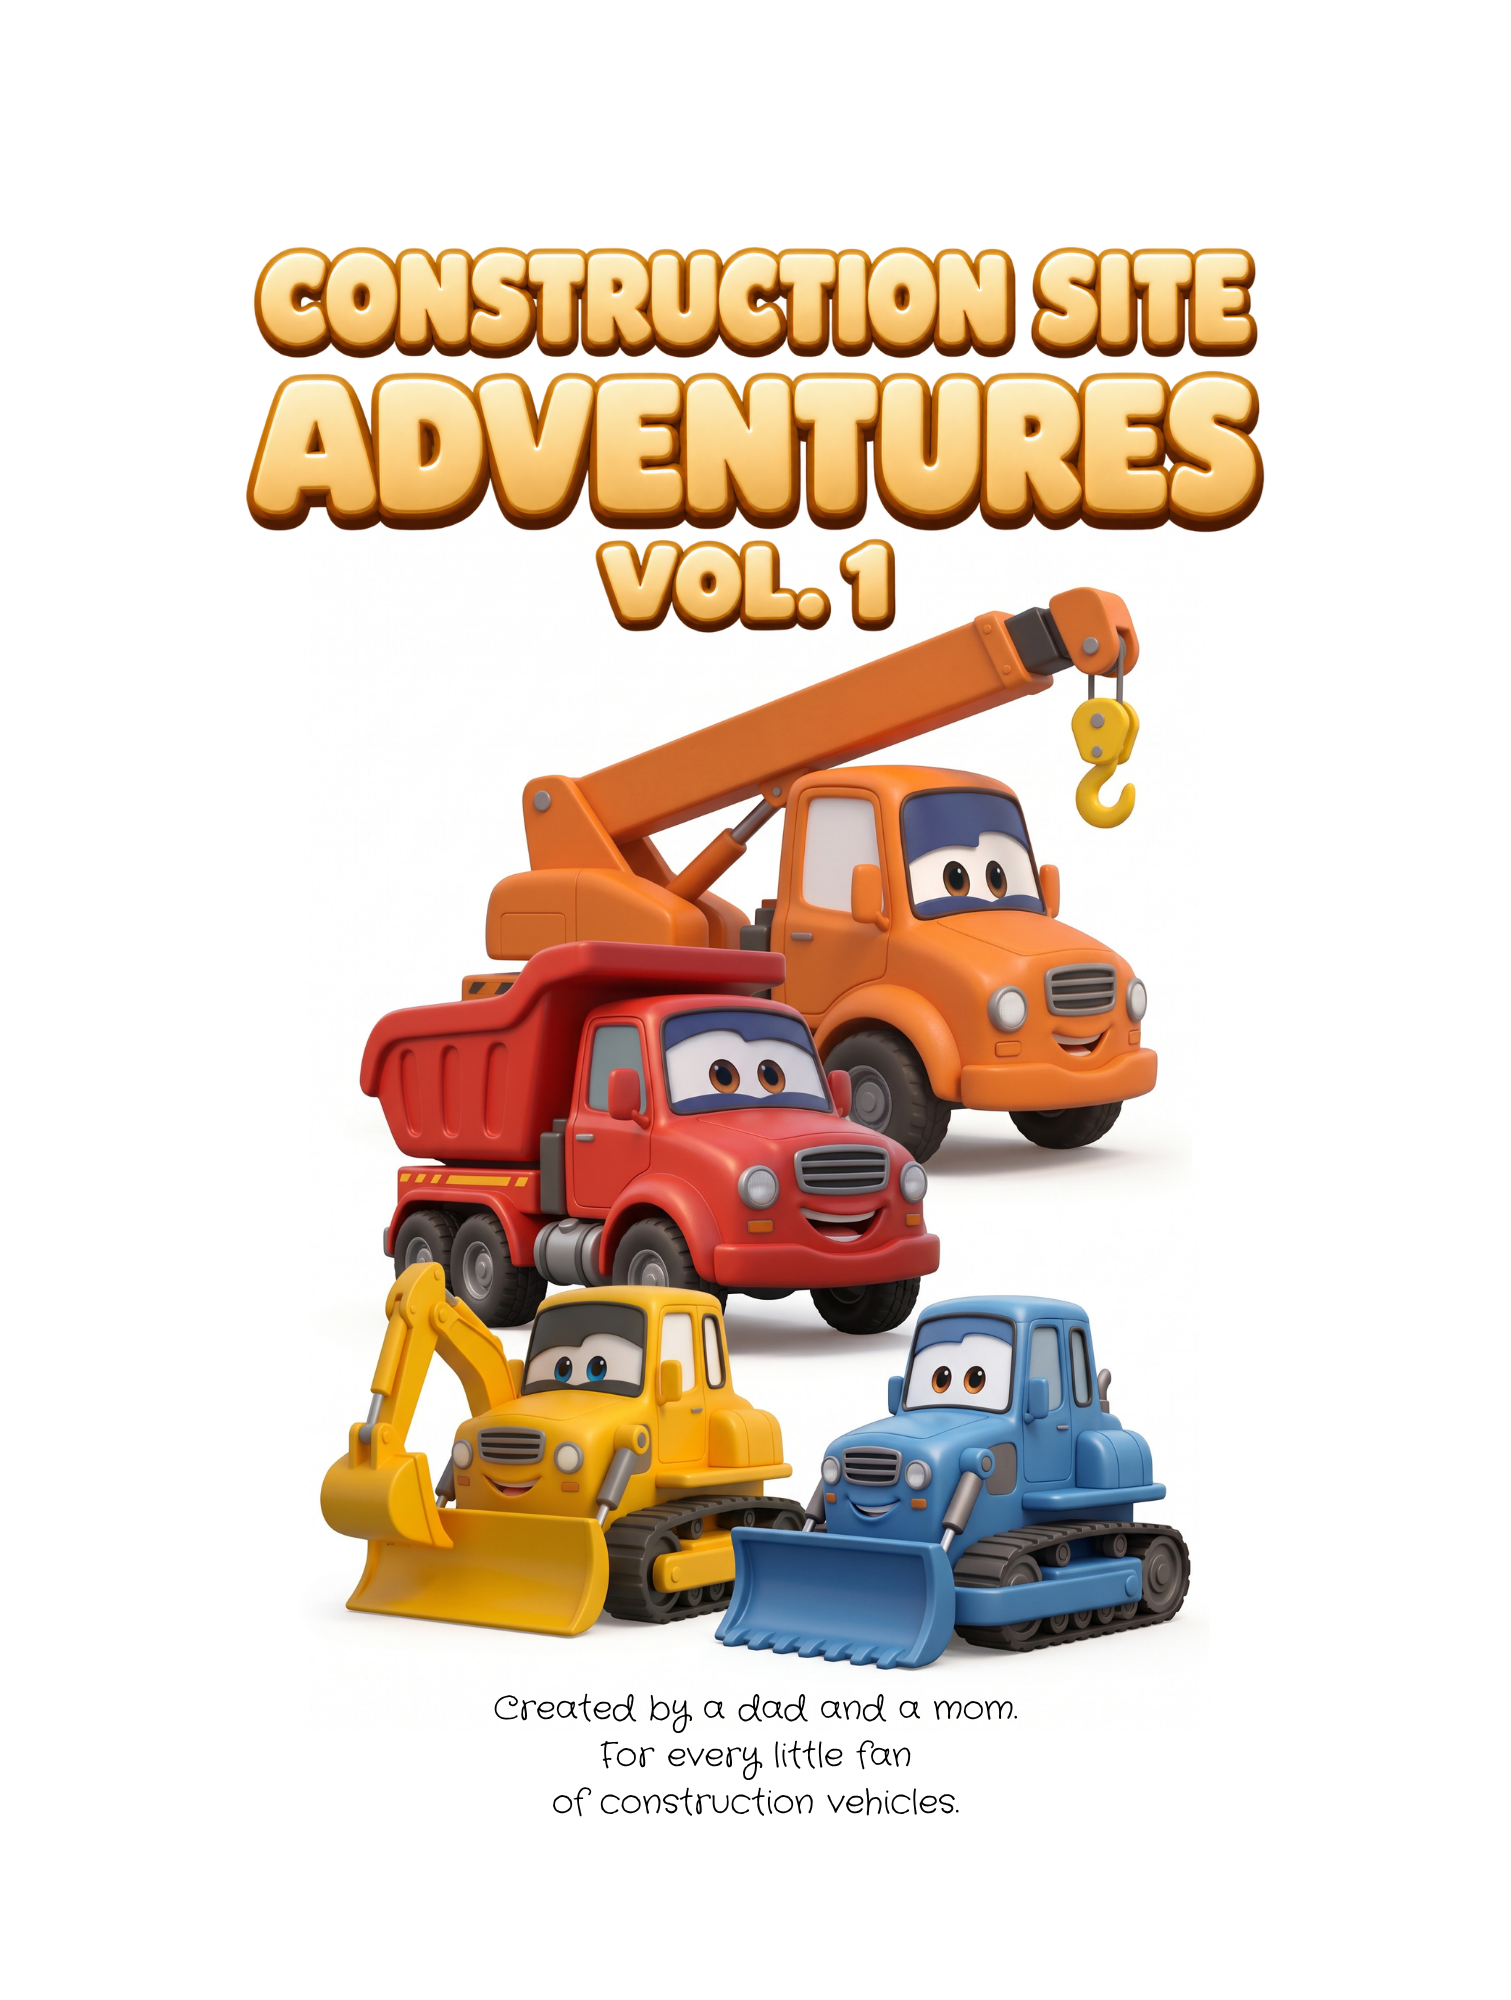
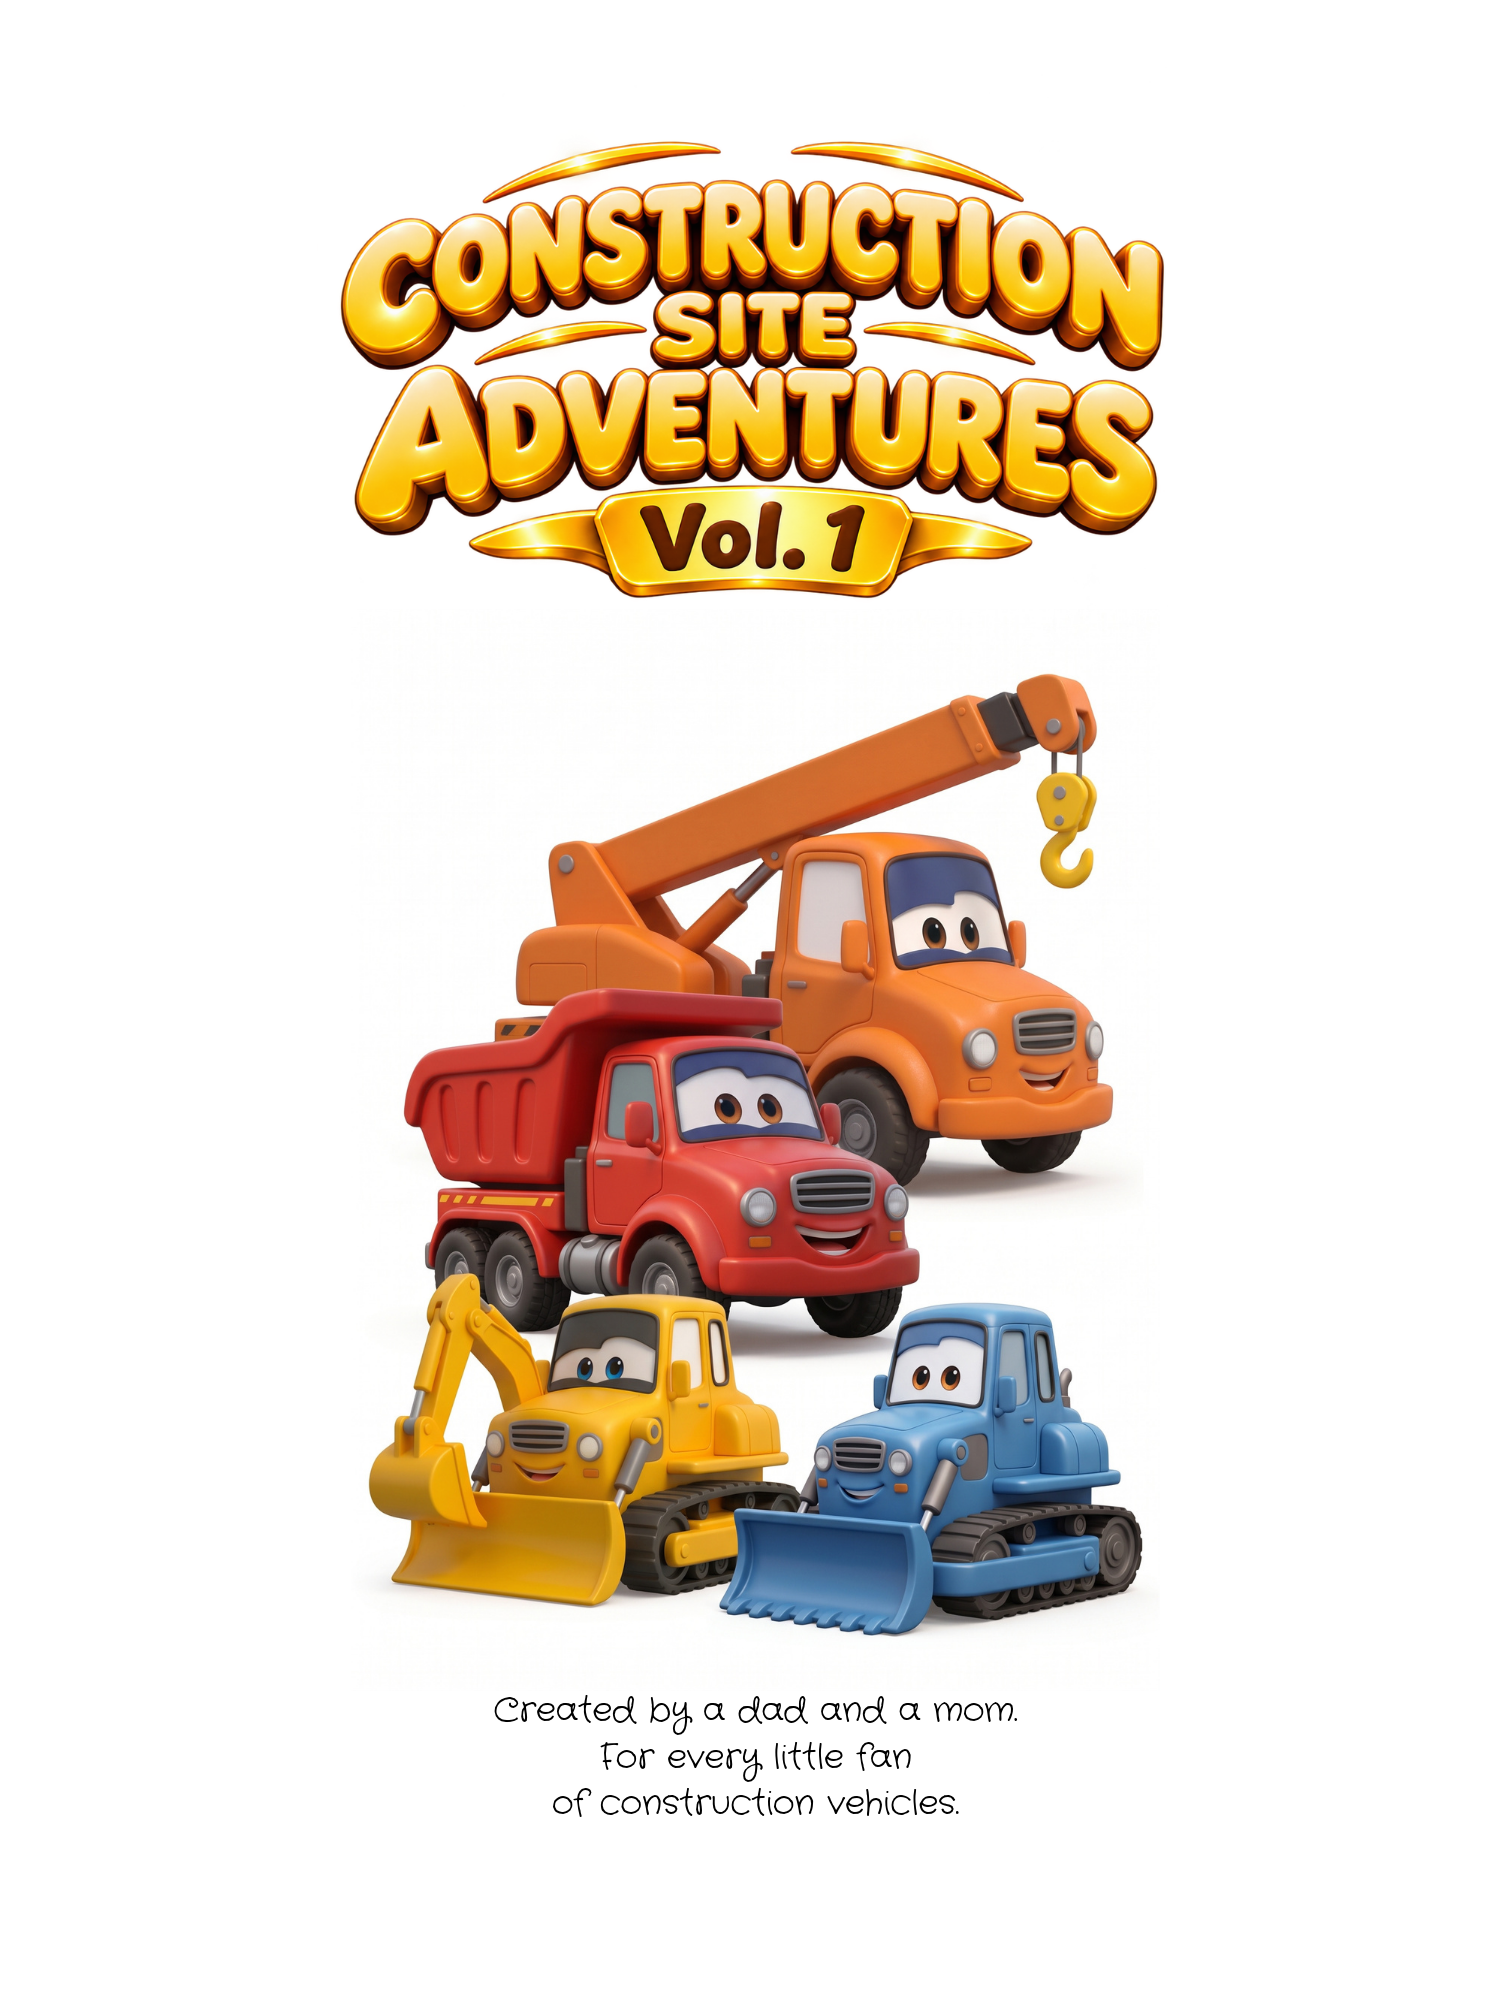
feat: aggiornamento copertine e interni IT ed EN di CSA Volume 1

Changed region(s): [[0.1555, 0.062, 0.8398, 0.899]]

diff --git a/assets/banner/banners.js b/assets/banner/banners.js
@@ -1,6 +1,6 @@
 /**
  * Auto-generated by scripts/generate-banners.js
- * Generated at: 2026-11-21T08:52:12.411Z
+ * Generated at: 2026-11-21T13:29:12.408Z
  * Do NOT edit manually. Add or remove images in assets/banner/ instead.
  */
 window.BANNER_MANIFEST = [
